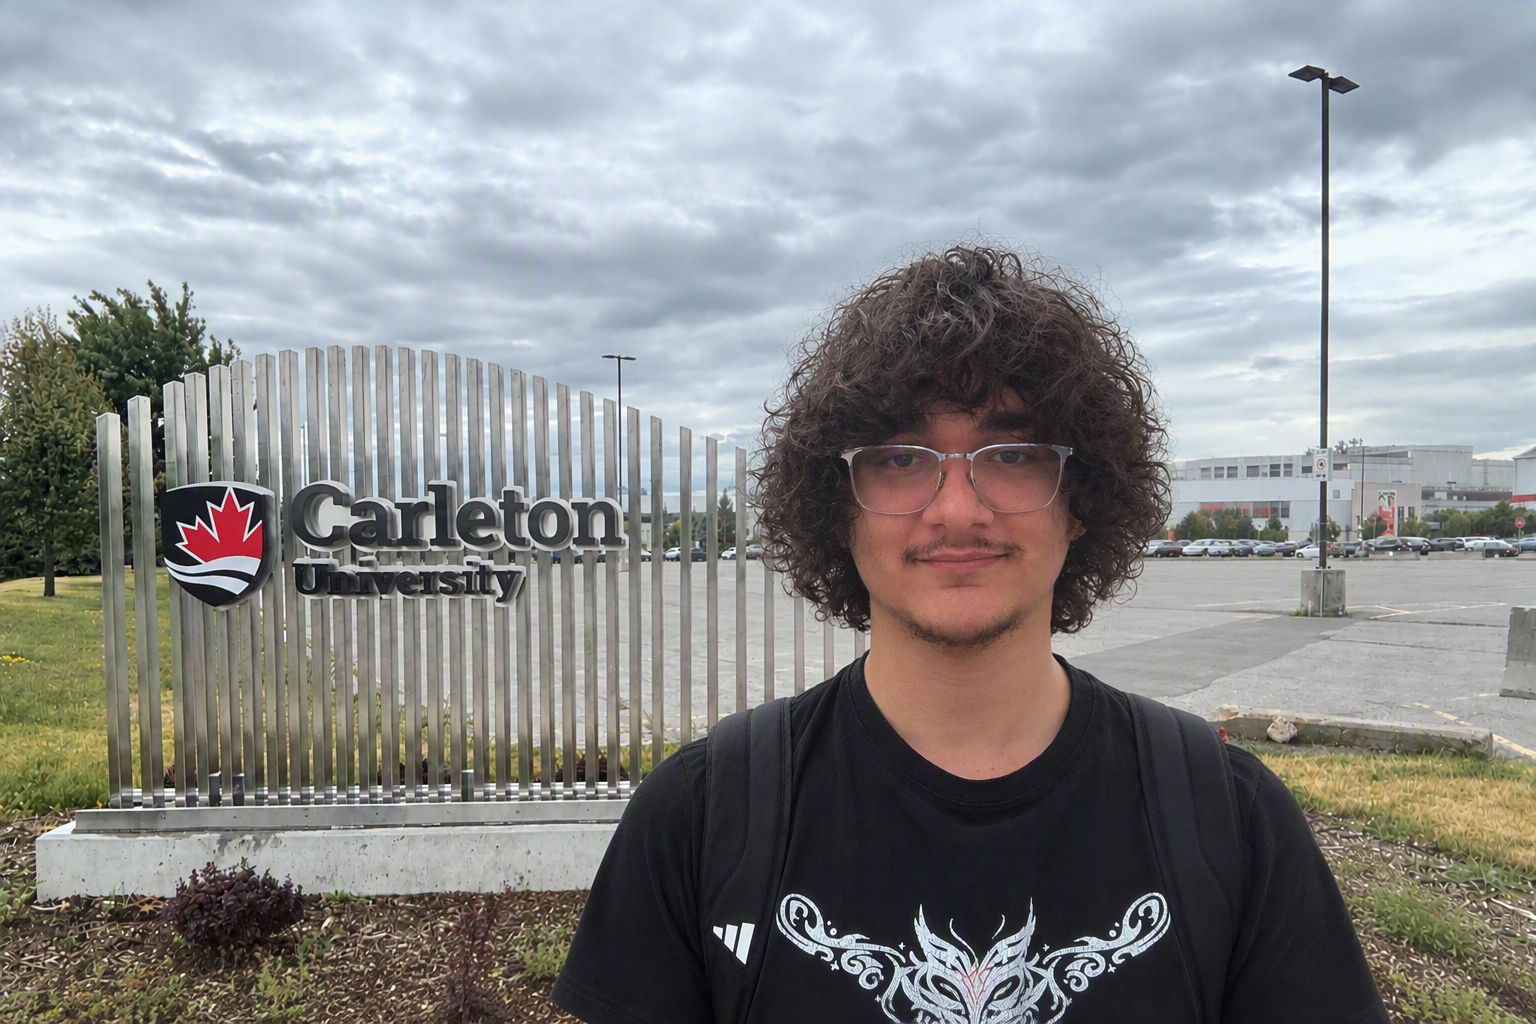
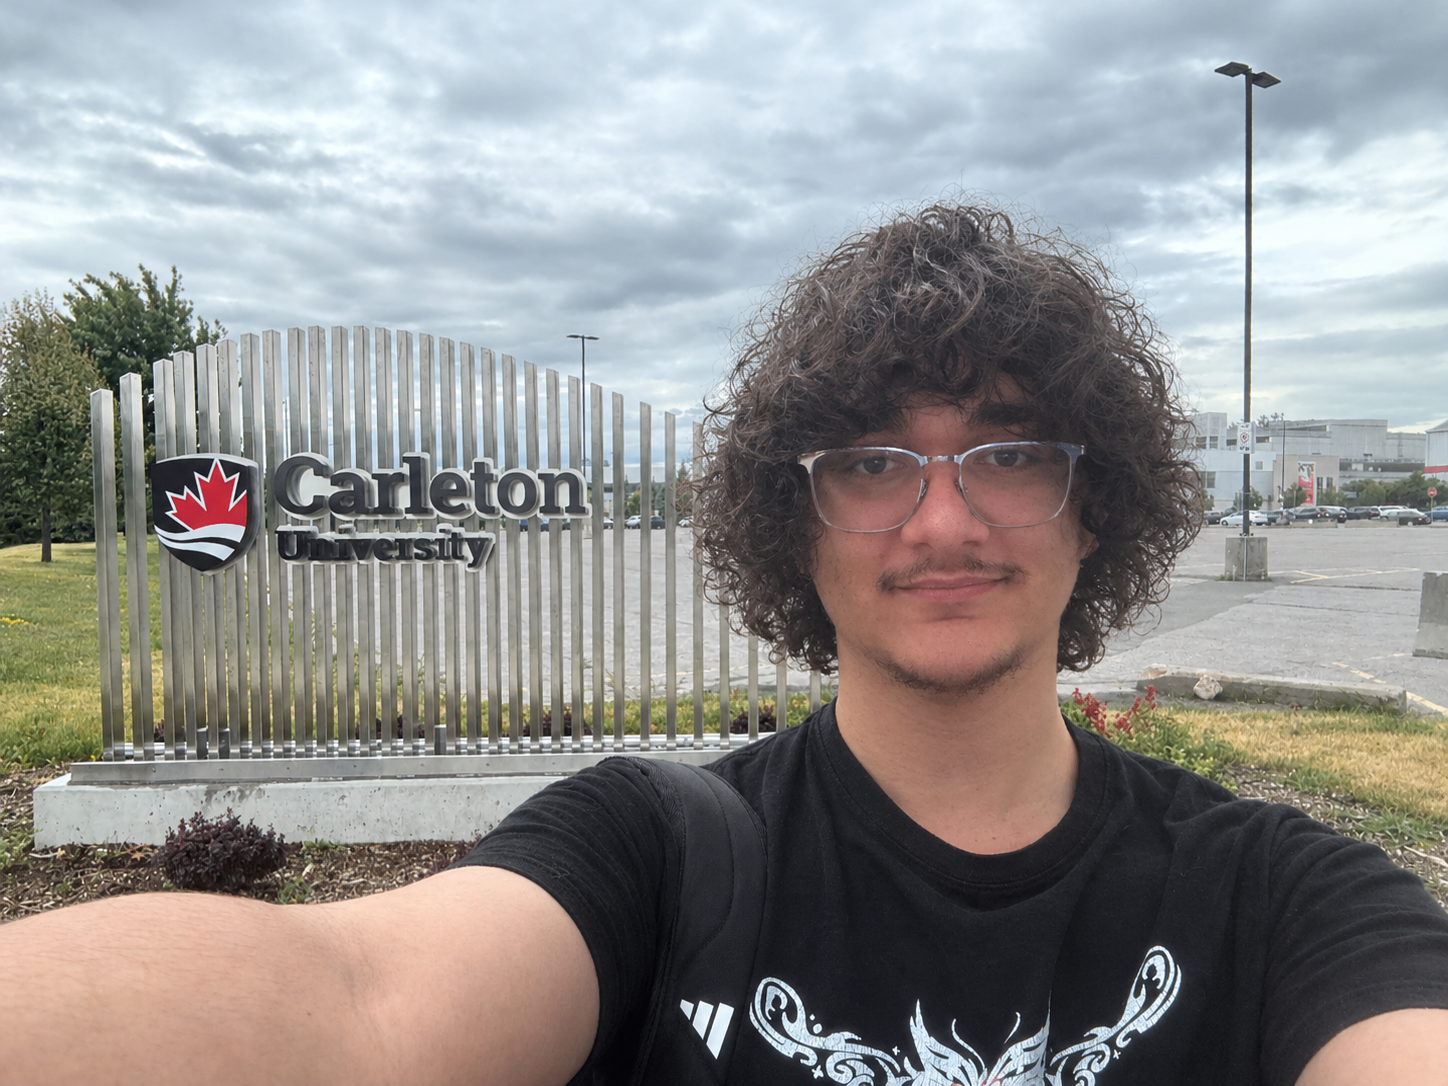
refactor: comments and some changes to visibility

diff --git a/src/components/Projects.jsx b/src/components/Projects.jsx
@@ -1,3 +1,4 @@
+// stuff
 const projects = [
   {
     title: "Social Media Application",
@@ -46,7 +47,7 @@ const projects = [
     title: "Minecraft mod",
     category: "Open source / Java",
     bullets: [
-      "A quality-of-life Minecraft mod built to test ideas against a real codebase and make everyday play more useful.",
+      "After Minecraft stopped obfuscating their codebase, I dove into their Java Bytecode and decompiled it with mappings to improve readability and test my skills in making a mod that involves featuers I wished minecraft would integrate!",
     ],
     tags: ["Java", "Fabric", "Open source"],
     href: "https://github.com/Tarkan-Zarrouk/meow-client",

diff --git a/next.config.js b/next.config.js
@@ -1,0 +1,5 @@
+const nextConfig = {
+    devIndicatorState: false
+}
+
+export default nextConfig;
